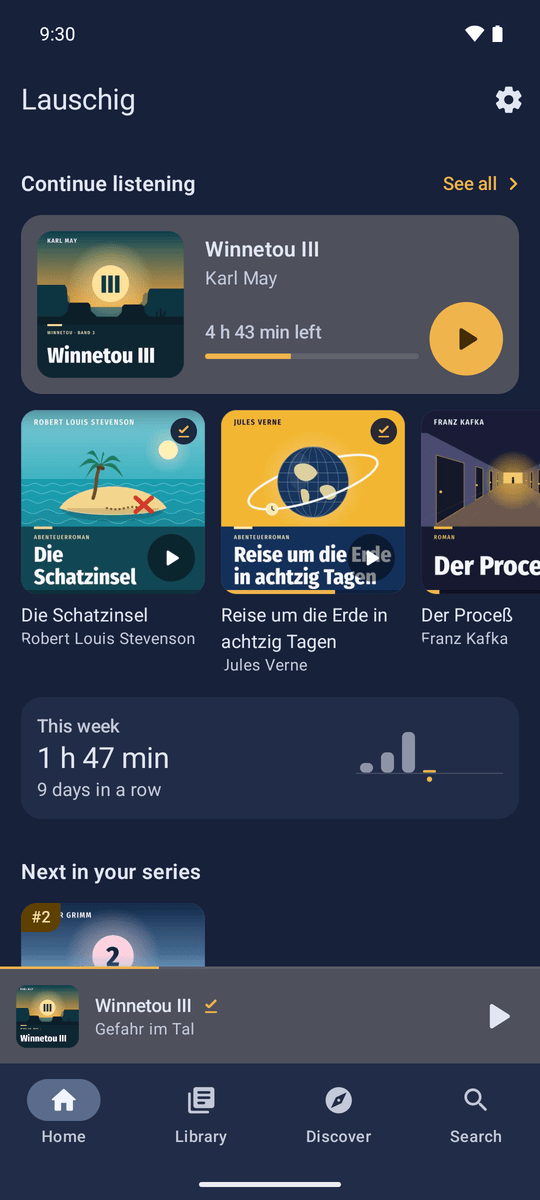
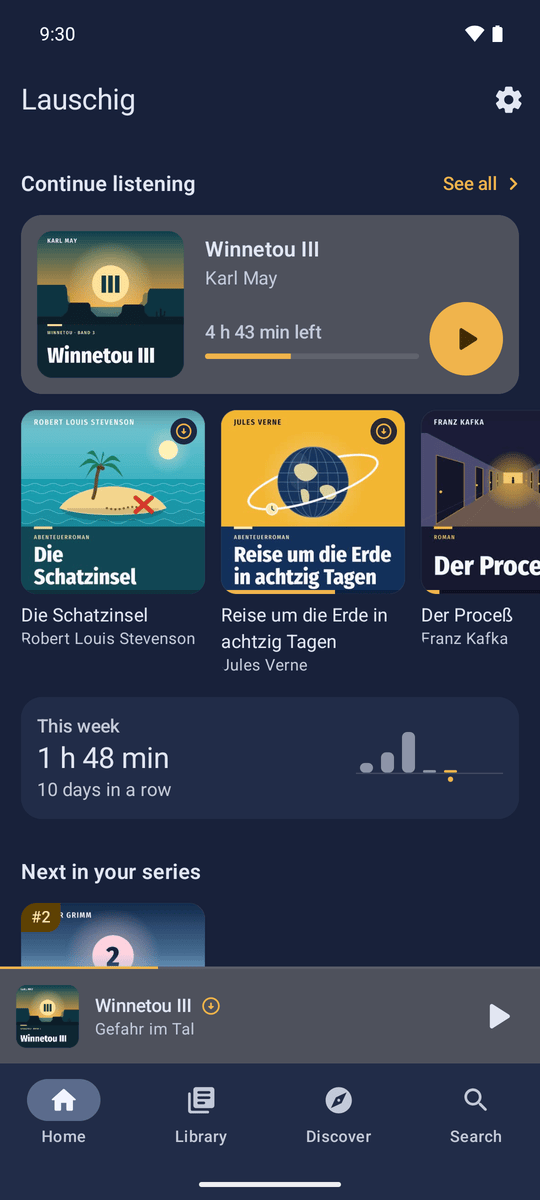
docs(readme): screenshots and status for 0.4.0

diff --git a/README.md b/README.md
@@ -8,12 +8,12 @@ network, and listening progress is synced with the server whenever a connection 
 
 <table>
   <tr>
-    <td align="center" valign="top"><img src="docs/screenshots/start.png" width="260" alt="Start screen with the continue card for Winnetou III, a row of titles in progress and this week's listening time"><br>Continue where you left off</td>
-    <td align="center" valign="top"><img src="docs/screenshots/detail.png" width="260" alt="Detail page of Die Schatzinsel with a header tinted in the cover's colours"><br>Every title in its cover's colours</td>
-    <td align="center" valign="top"><img src="docs/screenshots/player.png" width="260" alt="Player for Winnetou III with chapter progress, speed, chapters, sleep timer and audio settings"><br>Chapters, speed and sleep timer at hand</td>
+    <td align="center" valign="top"><img src="docs/screenshots/start.png" width="260" alt="Start screen with the continue card for Winnetou III, a row of titles in progress and this week's listening time (dark theme, Night blue)"><br>Continue where you left off</td>
+    <td align="center" valign="top"><img src="docs/screenshots/detail.png" width="260" alt="Detail page of Die Schatzinsel with duration, year, tags, a continue button and a round download button"><br>Everything about a title at a glance</td>
+    <td align="center" valign="top"><img src="docs/screenshots/player.png" width="260" alt="Player for Winnetou III in the warm Fireside dark tone, with the chapter banner, two timestamps and tiles for speed, sleep timer and sound"><br>Player in the warm Fireside tone</td>
   </tr>
   <tr>
-    <td align="center" valign="top"><img src="docs/screenshots/statistics.png" width="260" alt="Statistics for the year: listening time per month, streaks and finished books"><br>Listening statistics by week, month and year</td>
+    <td align="center" valign="top"><img src="docs/screenshots/statistics.png" width="260" alt="Statistics for the year with one month selected and its listening time shown in a tooltip"><br>Listening statistics by week, month and year</td>
     <td align="center" valign="top"><img src="docs/screenshots/achievements.png" width="260" alt="Achievements grid with levels for streaks, hours listened and finished books"><br>Achievements for streaks, hours and finished books</td>
     <td align="center" valign="top"><img src="docs/screenshots/year-in-review.png" width="260" alt="Year in review slide with the five most listened titles of the year"><br>Your year in review</td>
   </tr>
@@ -32,7 +32,7 @@ local database as the source of truth and uses the network only in the backgroun
 
 ## Status
 
-Version 0.3.0, in daily use on our own devices; not on Google Play yet (a closed test is planned). What works:
+Version 0.4.0, in daily use on our own devices; not on Google Play yet (a closed test is planned). What works:
 
 - Offline first: library, downloads, progress and listening sessions live on the device and sync in the background.
 - Browsing by series, authors, narrators, genres, tags and collections; podcasts; search; single sign-on (OIDC).
@@ -40,6 +40,10 @@ Version 0.3.0, in daily use on our own devices; not on Google Play yet (a closed
   books and folders that exist only on the device.
 - Android Auto, voice search, a home-screen widget, links from the Audiobookshelf web app, phone and tablet layouts.
 - Listening statistics, achievements and a year in review, computed on the device.
+- New in 0.4.0 (Phase 6, merged so far): adjustable skip steps, a new player layout, a hint tone (chime) before the
+  sleep timer fades out, night compression, a warm night palette ("Fireside"), chapter search, faster search and
+  library, and a cover cache.
+<!-- downloads package -->
 
 The design spec and the phase plans (mostly German) live in [`docs/superpowers/specs/`](docs/superpowers/specs/) and [`docs/superpowers/plans/`](docs/superpowers/plans/).
 
